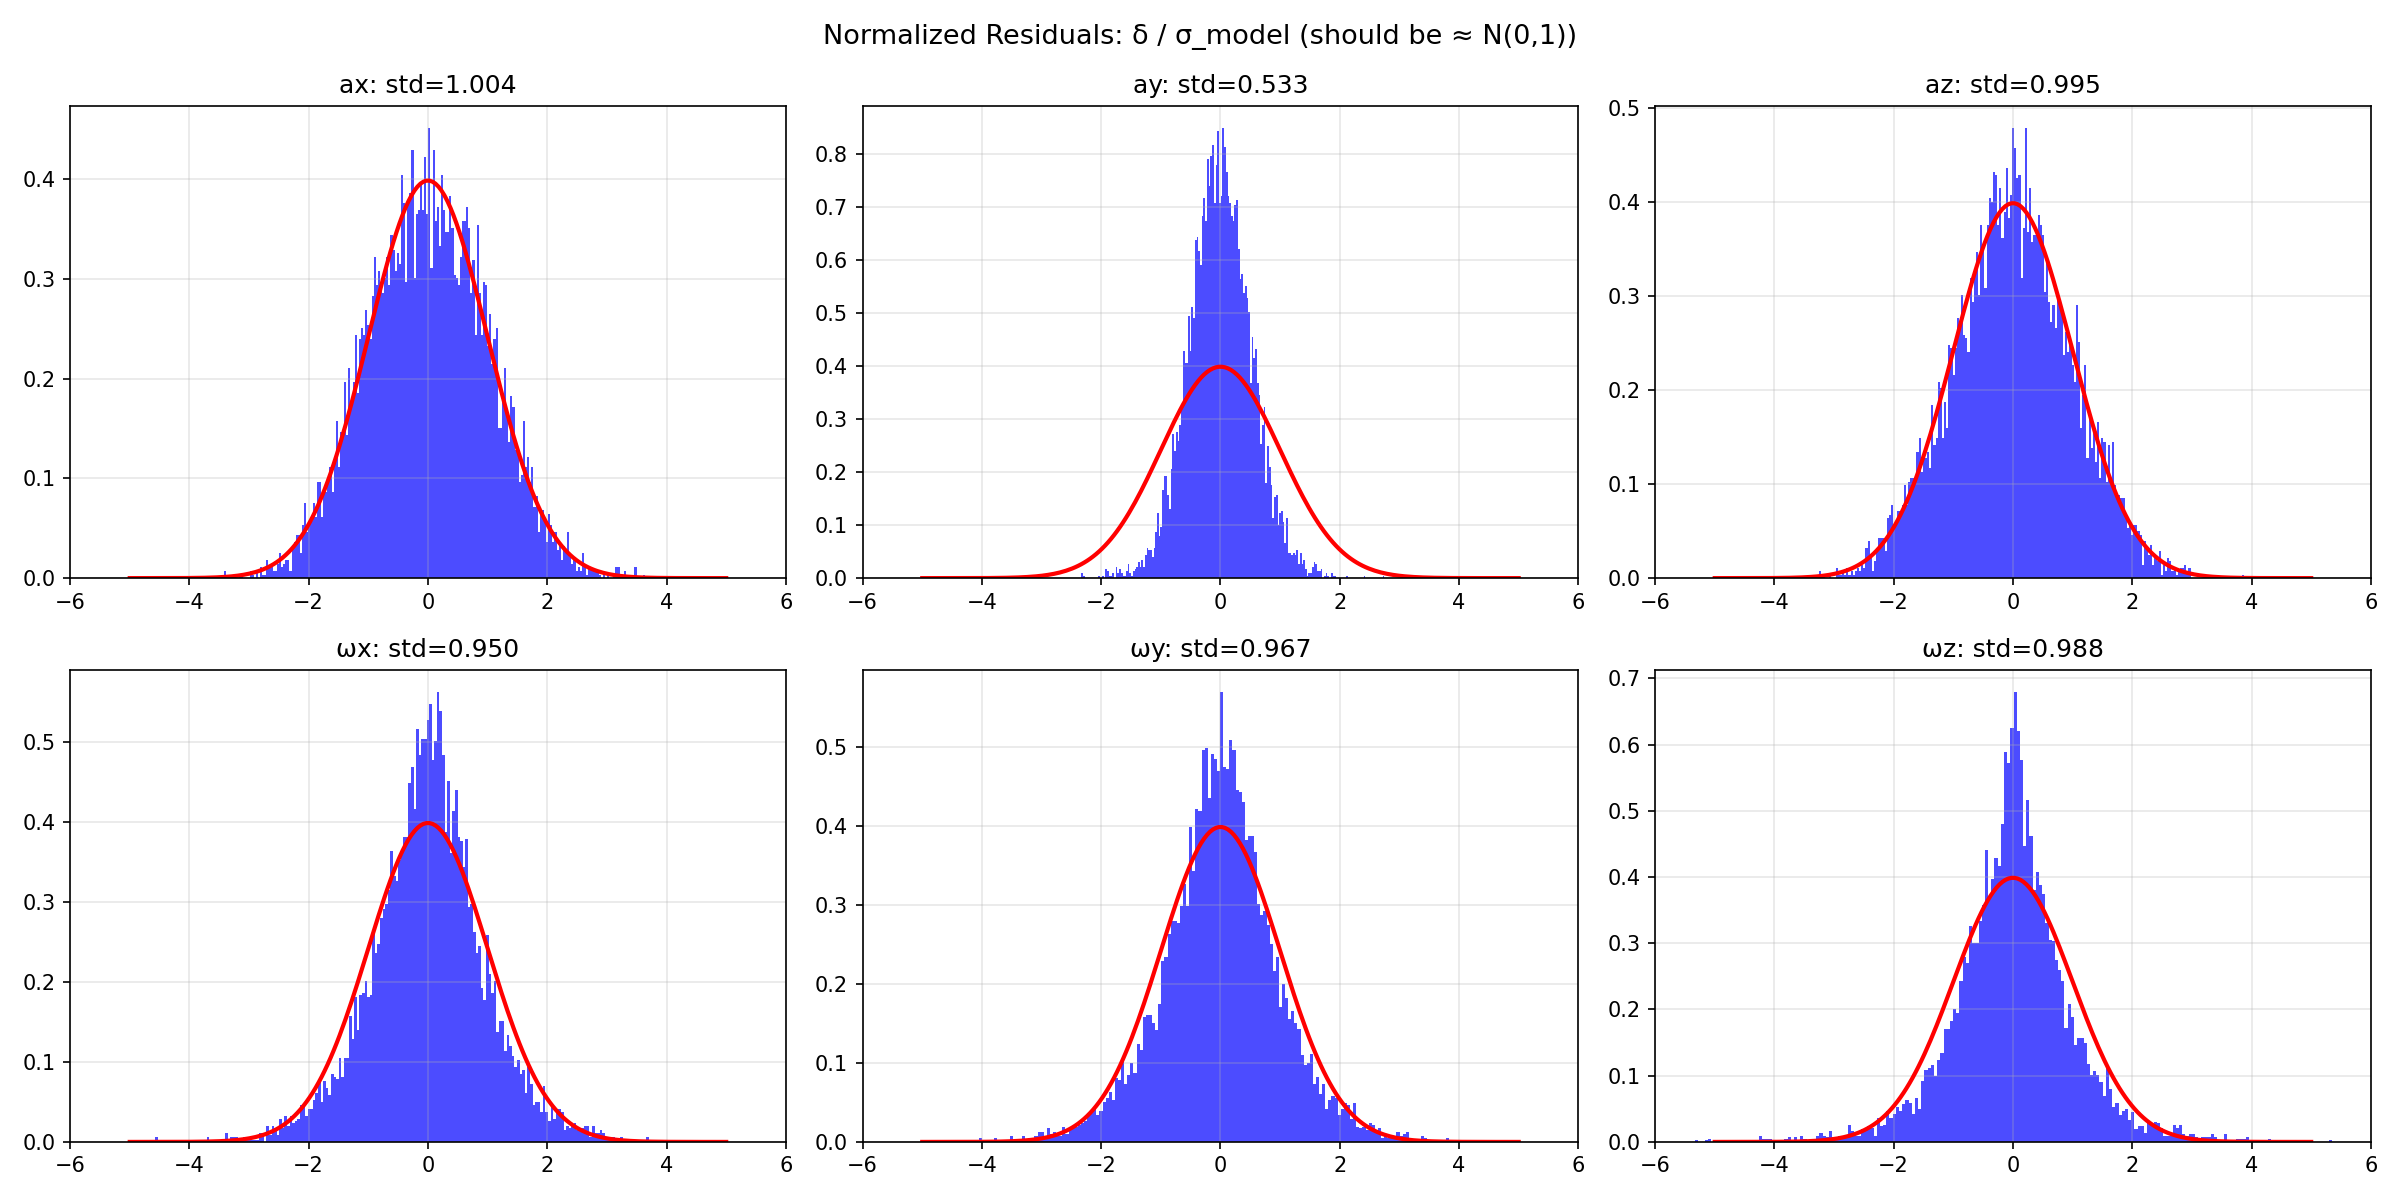
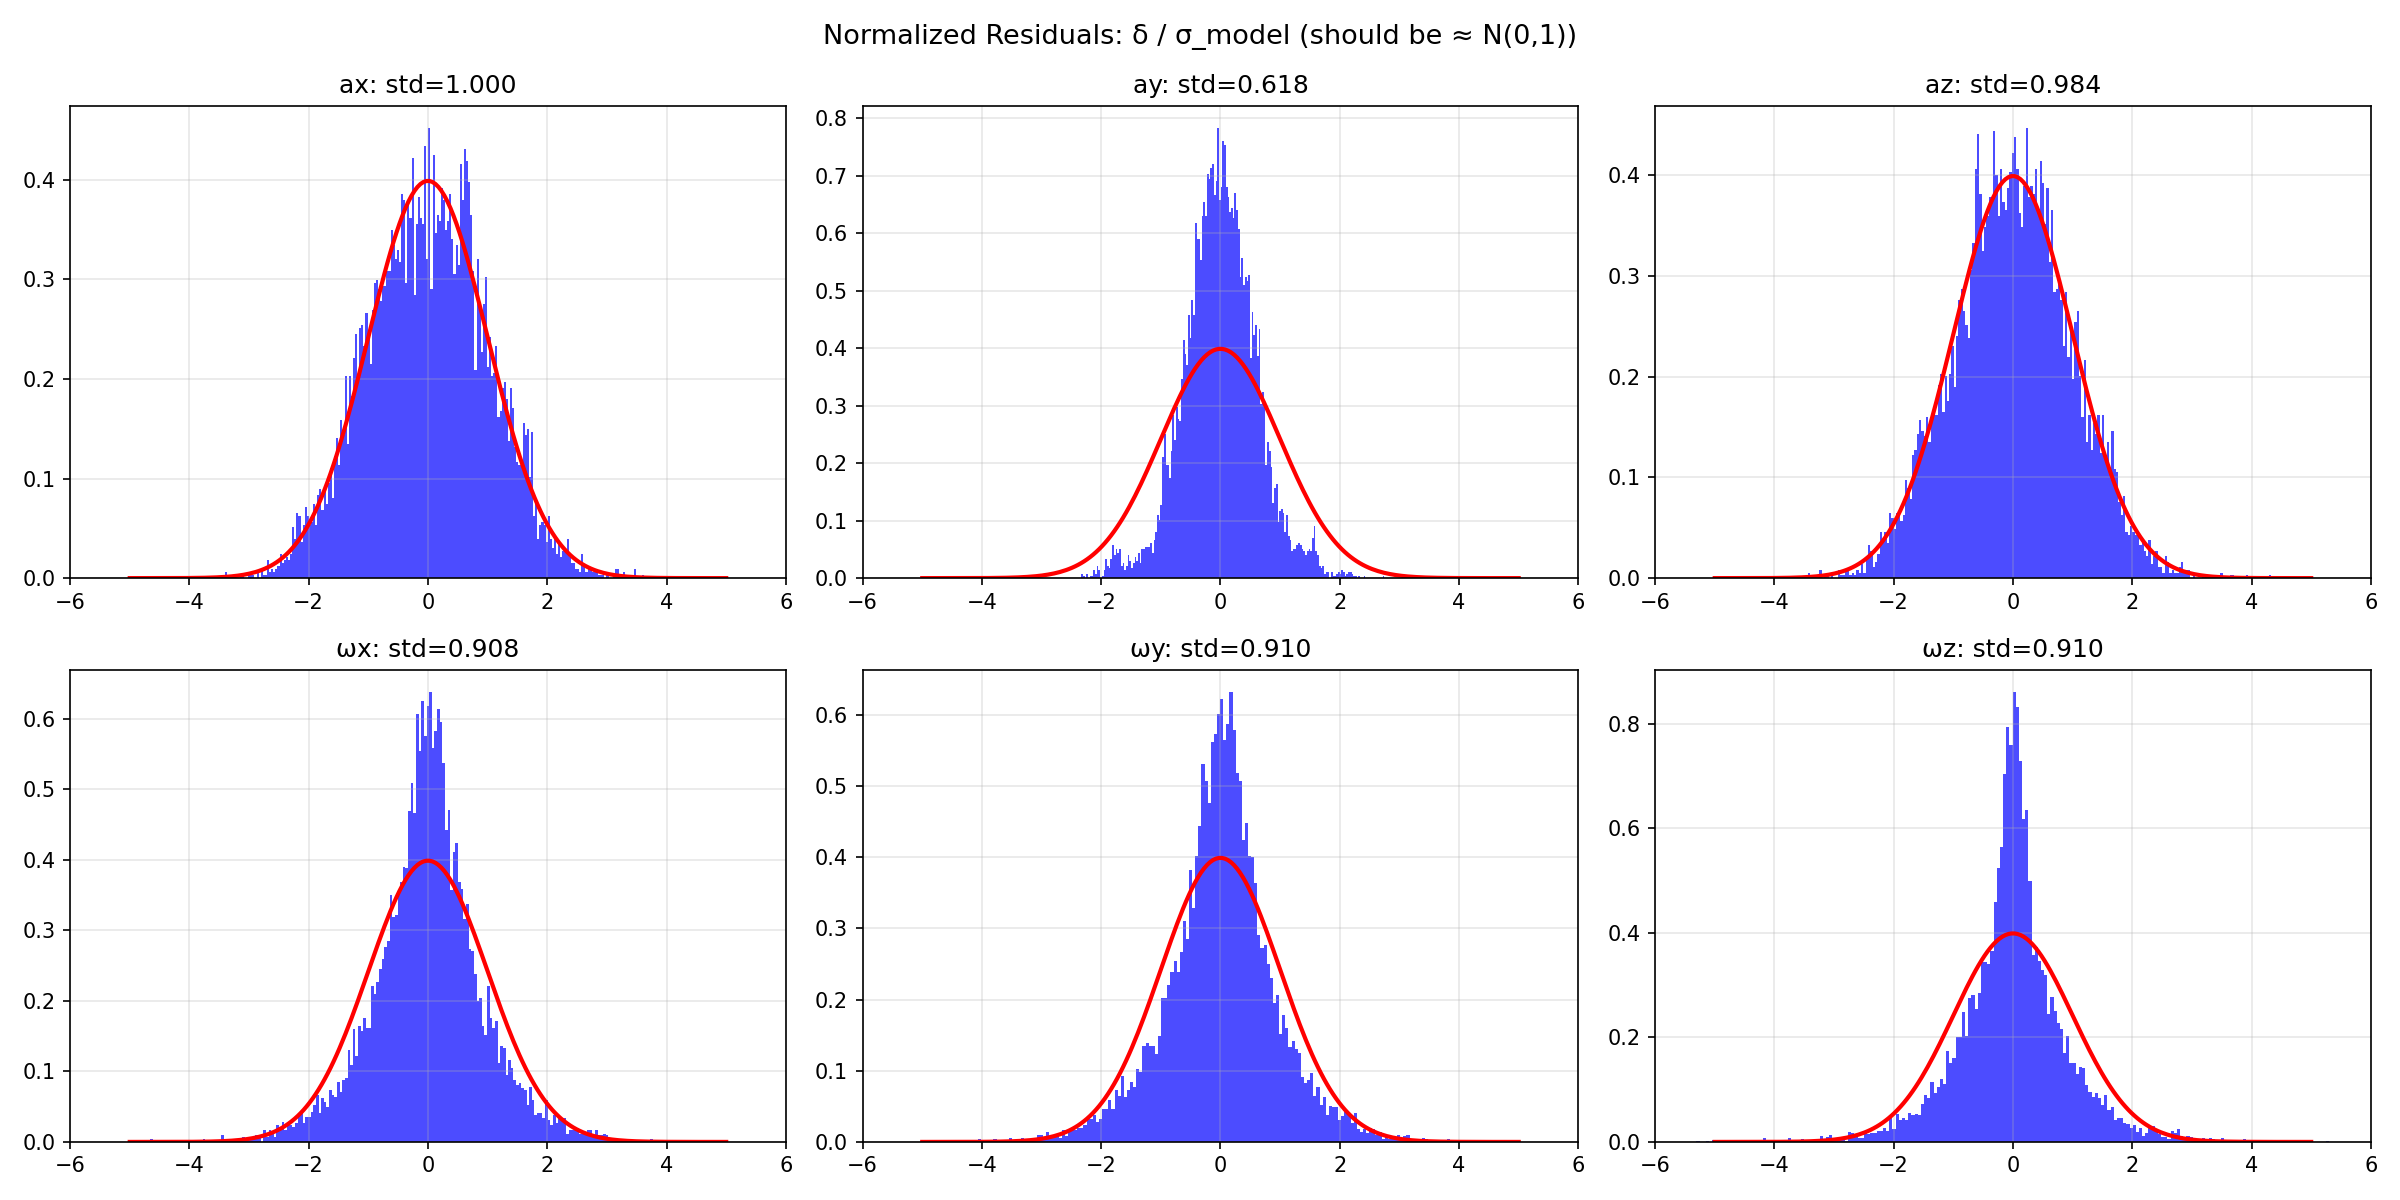
Include takeoff/landing data for IMU noise model fitting
Expanded analysis window from [5,44]s to [1,48]s to capture ground idle
(ΣFi²≈6) through flight (ΣFi²≈170-200). R² improved significantly:
gyro 0.15→0.52, accel az 0.05→0.35, ay 0.62→0.80.

https://claude.ai/code/session_01LyivL6ySPkazYroLddSuMA

diff --git a/data_set/fit_imu_noise_model.py b/data_set/fit_imu_noise_model.py
@@ -196,8 +196,8 @@ def main():
     od_ts -= t0
     rpm_ts -= t0
 
-    t_start = 5.0
-    t_end = min(imu_ts[-1], od_ts[-1], rpm_ts[-1]) - 5.0
+    t_start = 1.0
+    t_end = min(imu_ts[-1], od_ts[-1], rpm_ts[-1]) - 1.0
 
     # ---- Interpolate odom velocity & RPM to IMU time grid ----
     mask = (imu_ts >= t_start) & (imu_ts <= t_end)